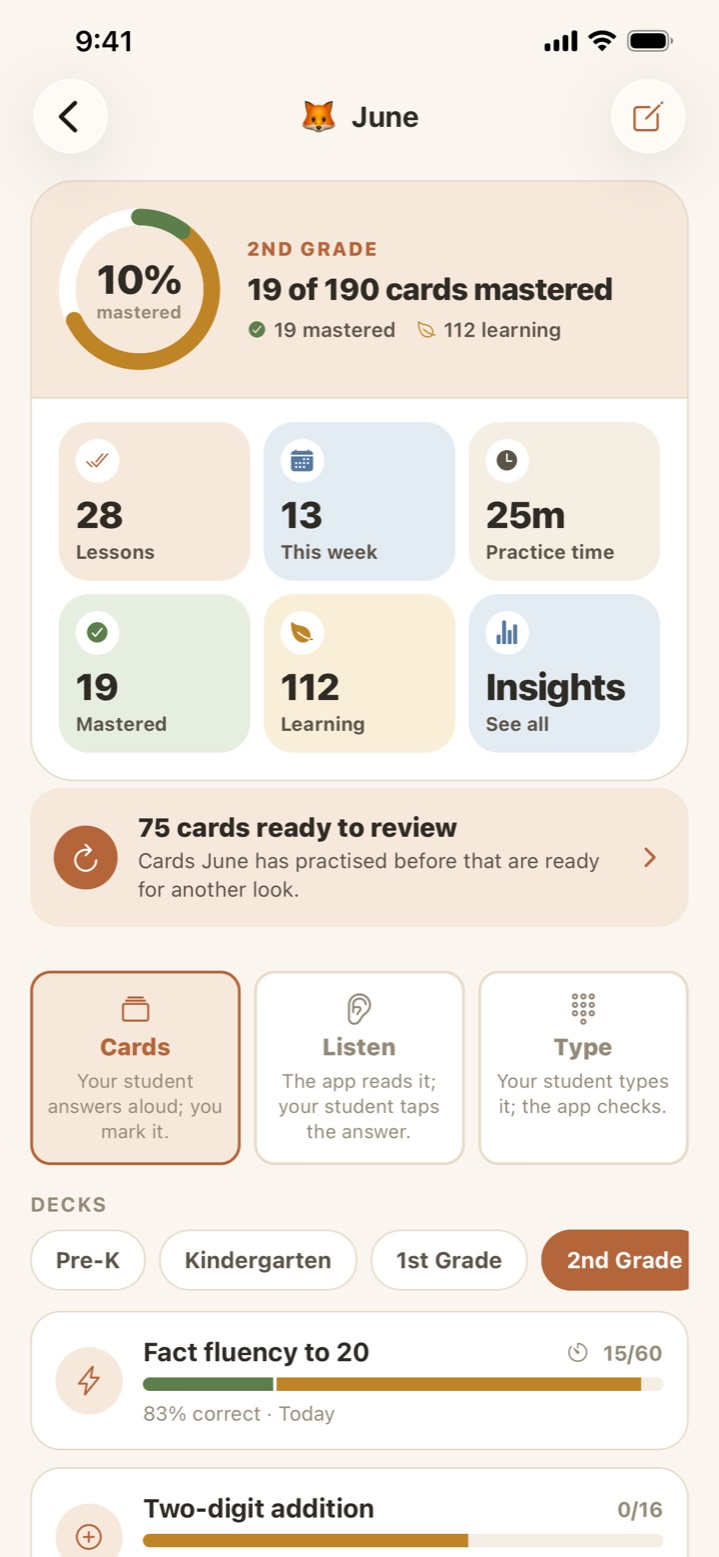
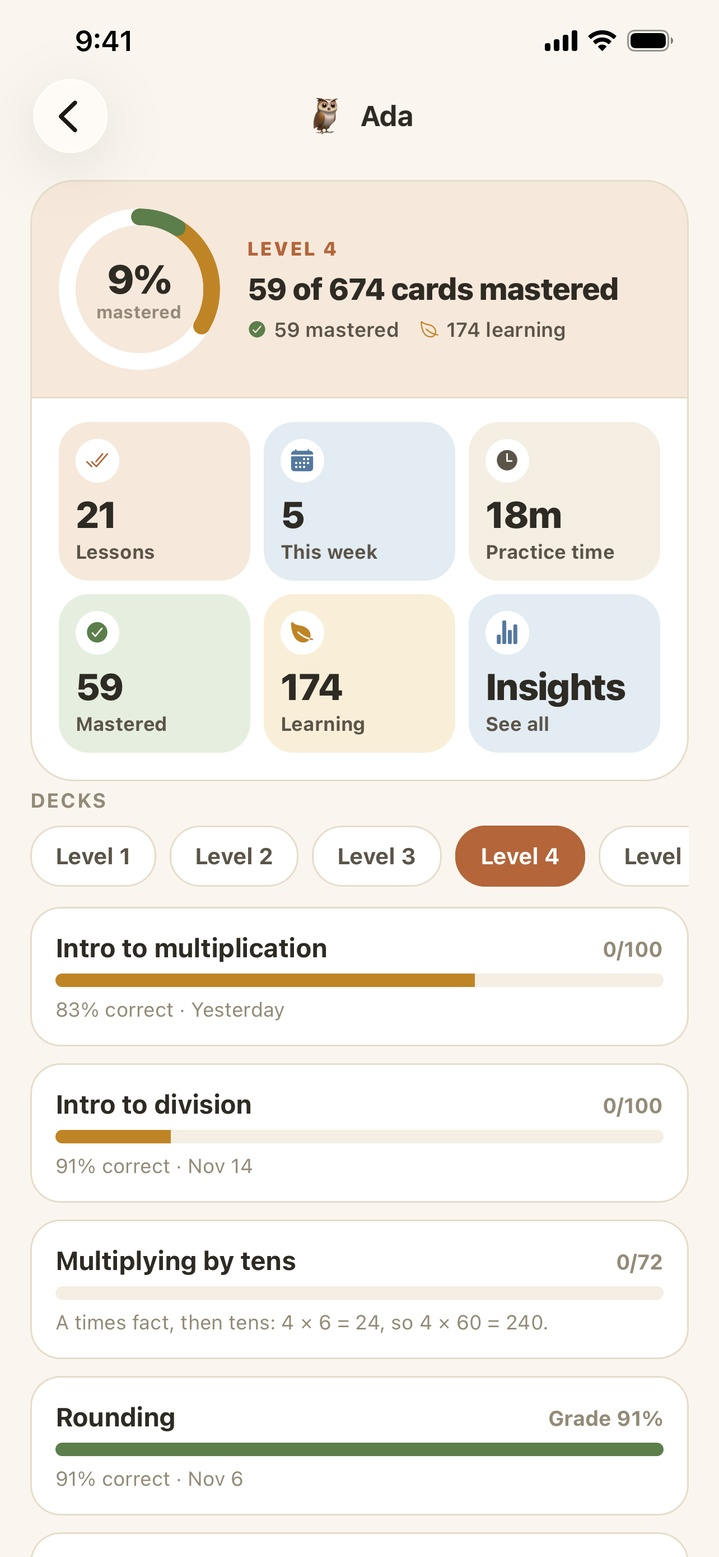
Math page: Levels 1-7, two voices, new screenshot tour
Match the app as it ships and the store listing copy: Pre-K through 6th
grade in seven levels, more than 90 decks and 3,600 cards, activities,
Wren and Miles, mastery by level, the current grown-ups gate, and the
update check and Android voice delivery alongside RevenueCat. Drop the
timed drill. Replace the tour with the nine new App Store iPhone shots,
and update the Math cards on the home and software pages.

diff --git a/little-oat-math.html b/little-oat-math.html
@@ -3,9 +3,9 @@
 <head>
   <meta charset="UTF-8" />
   <meta name="viewport" content="width=device-width, initial-scale=1.0" />
-  <meta name="description" content="Little Oat Math by Little Oat LLC — math flashcards for Pre-K through 5th grade, with flashcards, listen-and-choose, type-the-answer and timed-drill practice, spaced repetition, and progress for every student. Coming soon to iPhone and Android." />
+  <meta name="description" content="Little Oat Math by Little Oat LLC — math practice for Pre-K through 6th grade in seven levels, with flashcards, listen and choose, type the answer, multiple choice and hands-on activities, two recorded voices, spaced repetition, and progress for every student. Coming soon to iPhone and Android." />
   <meta name="author" content="Little Oat LLC" />
-  <title>Little Oat Math | Homeschool Math Flashcards App — Little Oat LLC</title>
+  <title>Little Oat Math | Homeschool Math Practice App — Little Oat LLC</title>
 
   <link rel="preconnect" href="https://fonts.googleapis.com" />
   <link rel="preconnect" href="https://fonts.gstatic.com" crossorigin />
@@ -80,7 +80,7 @@
 
 <section class="page-intro app-intro">
   <h1>Little Oat Math</h1>
-  <p>Math flashcards for homeschool families, Pre-K through 5th grade &mdash; 84 decks and 1,195 cards, from counting to five to order of operations. Your child answers aloud, listens and chooses, types the answer, or races a timed drill, cards come back at the right time until they&rsquo;re mastered, and each student&rsquo;s progress is there when you want it. No account, no ads, and everything stays on your phone.</p>
+  <p>Math practice for homeschool families, from Pre-K counting to 6th-grade ratios and equations &mdash; seven levels, more than 90 decks and 3,600 cards. Your child answers aloud, listens and chooses, types the answer, picks from multiple choice, or works a hands-on activity, cards come back just before they&rsquo;d be forgotten until they&rsquo;re mastered, and each student&rsquo;s progress is there when you want it. No account, no ads, and everything stays on your phone.</p>
 </section>
 
 <!-- ============================================================
@@ -91,23 +91,39 @@
     <div class="lo-tour-list" id="sc-list" role="tablist" aria-label="Little Oat Math features">
       <button class="lo-tour-item active" role="tab" aria-selected="true" data-slide="0">
         <span class="num">01</span>
-        <div><h4>Flashcards with pictures</h4><p>Ten frames, clocks, coins, base-ten blocks, fraction bars and arrays drawn right on the card. Your child answers aloud, you mark Got it or Again.</p></div>
+        <div><h4>Every child in one place</h4><p>Add each child with their own animal picture. Each one gets their own lessons and progress.</p></div>
       </button>
       <button class="lo-tour-item" role="tab" aria-selected="false" data-slide="1">
         <span class="num">02</span>
-        <div><h4>Listen &amp; choose</h4><p>The app reads the problem aloud and your child taps the answer from four. Self-marking and timed.</p></div>
+        <div><h4>Decks by level, not grade</h4><p>A dashboard on every student&rsquo;s page, and decks from Level 1 to Level 7, so each child works wherever they are.</p></div>
       </button>
       <button class="lo-tour-item" role="tab" aria-selected="false" data-slide="2">
         <span class="num">03</span>
-        <div><h4>Type the answer</h4><p>A big on-screen number pad, and the card checks itself &mdash; fractions, decimals, times and remainders included.</p></div>
+        <div><h4>Flashcards with pictures</h4><p>Base-ten blocks, ten frames, clocks and coins drawn right on the card. Your child answers aloud, you mark Got it or Missed it.</p></div>
       </button>
       <button class="lo-tour-item" role="tab" aria-selected="false" data-slide="3">
         <span class="num">04</span>
-        <div><h4>Timed drill</h4><p>A 1, 2 or 3-minute fluency round on the fact decks, with a personal best to beat. No streaks, ever.</p></div>
+        <div><h4>Worked as on paper</h4><p>Columns with carries and borrows, long division under the bracket, equations step by step. After a miss, the app shows where it went wrong.</p></div>
       </button>
       <button class="lo-tour-item" role="tab" aria-selected="false" data-slide="4">
         <span class="num">05</span>
-        <div><h4>Progress for every student</h4><p>A dashboard on every student&rsquo;s page, a full history of every lesson, and insights with accuracy trends, mastery by grade and deck, and the cards that need practice.</p></div>
+        <div><h4>Games for the youngest</h4><p>Color the number, Catch &amp; count and Balloon pop, for children just starting out with numbers.</p></div>
+      </button>
+      <button class="lo-tour-item" role="tab" aria-selected="false" data-slide="5">
+        <span class="num">06</span>
+        <div><h4>Explore first</h4><p>Many decks open with something to explore and nothing to answer: meet the area formulas, play with angles, watch the mean move.</p></div>
+      </button>
+      <button class="lo-tour-item" role="tab" aria-selected="false" data-slide="6">
+        <span class="num">07</span>
+        <div><h4>Hands-on activities</h4><p>Set the clock, pay with coins and make change, build numbers with base-ten blocks, hop a frog along the number line, plot points.</p></div>
+      </button>
+      <button class="lo-tour-item" role="tab" aria-selected="false" data-slide="7">
+        <span class="num">08</span>
+        <div><h4>Progress for every student</h4><p>Accuracy trends, a 14-day chart, mastery by level and deck, and the cards to review. No streaks.</p></div>
+      </button>
+      <button class="lo-tour-item" role="tab" aria-selected="false" data-slide="8">
+        <span class="num">09</span>
+        <div><h4>Many ways to practice</h4><p>Flashcards, Listen &amp; choose, Type the answer, Multiple choice and activities. Pick a random set or the exact cards.</p></div>
       </button>
     </div>
 
@@ -115,9 +131,9 @@
       <div class="app-phone" id="sc-phone" aria-live="polite"></div>
       <div class="lo-tour-caption">
         <span>
-          <span class="pill-sm" id="sc-pill">Flashcards</span>
+          <span class="pill-sm" id="sc-pill">Students</span>
           &nbsp;
-          <span id="sc-counter" style="color:var(--muted)">Step 1 of 5</span>
+          <span id="sc-counter" style="color:var(--muted)">Step 1 of 9</span>
         </span>
         <div class="lo-tour-nav">
           <button id="sc-prev" aria-label="Previous feature" disabled>
@@ -165,7 +181,7 @@
   <div class="app-price">
     <span class="price-tag">Pricing</span>
     <div class="price-row"><span class="amount">$1.99</span><span class="period">/month</span></div>
-    <p class="price-note">Or $19.99 a year for Little Oat Math Plus, with a 14-day free trial that starts when you choose a plan. Everything is included in the trial: every deck from Pre-K to 5th grade, every student, all four ways to practice, and the full progress insights. After it, practice needs Plus &mdash; but a student&rsquo;s progress, figures and backups are never locked away. Billed through the App Store or Google Play; cancel anytime in your store settings.</p>
+    <p class="price-note">Or $19.99 a year for Little Oat Math Plus, with a 14-day free trial for new subscribers that starts when you choose a plan. Everything is included in the trial: every deck at every level, every student, every way to practice, and the full progress insights. After it, practice needs Plus &mdash; but a student&rsquo;s progress is never deleted or hidden, and backups are always free. Billed through the App Store or Google Play; cancel anytime in your store settings.</p>
   </div>
   <p class="store-avail-asof"><a href="policies.html#terms-apx-math">Terms of Use</a> &middot; <a href="policies.html#privacy-apx-math">Privacy Policy</a> &middot; <a href="policies.html#disc-apx-math">Disclaimers</a></p>
 </section>
@@ -175,28 +191,28 @@
      ============================================================ -->
 <section class="info-grid">
   <div class="info-card">
-    <h3>Counting to order of operations</h3>
-    <p>Counting, numbers to 120, quick-look dot patterns, shapes, ten frames and teen numbers, addition and subtraction facts, make 10, doubles, place value, comparing numbers, telling time, coins, skip counting, even and odd, every times table and its division facts, fractions, rounding, area and volume, angles, prime and composite numbers, decimals, powers of ten and order of operations.</p>
+    <h3>Counting to ratios and equations</h3>
+    <p>Seven levels: counting, numbers to 10, shapes and patterns; numbers to 100, ten frames, addition and subtraction facts, place value and time; carrying and borrowing, money, measuring and first fractions; multiplication, division, rounding, graphs, area and perimeter; long multiplication and division, decimals, lines and angles; order of operations, unit conversion, volume and the coordinate plane; and ratios, percentages, negative numbers, expressions and equations, and statistics. Make decks of your own under Custom, too.</p>
   </div>
   <div class="info-card">
     <h3>A page for each student</h3>
-    <p>Add each child with their own grade and progress. Each student&rsquo;s page opens on a dashboard: progress through their grade, lessons completed, cards mastered and cards still being learned &mdash; tap Lessons for every lesson, what it covered and exactly which cards were missed. Set up a lesson as a random set of any size or pick the exact cards, and mark any card mastered or new by hand.</p>
+    <p>Add each child with their own animal picture and progress. Each student&rsquo;s page opens on a dashboard: lessons, practice time, cards mastered and cards still being learned &mdash; tap Lessons for every lesson, what it covered and exactly which cards were missed. Set up a lesson as a random set or pick the exact cards. A card is mastered after four correct answers in a row, spread over about a week, and you can mark a card or deck mastered yourself.</p>
   </div>
   <div class="info-card">
     <h3>Logs straight into the Daily Tracker</h3>
-    <p>Send a finished lesson to the <a href="daily-work-tracker.html">Daily Work Tracker</a> and it&rsquo;s logged as graded daily work, filed under Math with the topic, cards covered and your notes already filled in. It goes from one app to the other on your phone.</p>
+    <p>Send a finished lesson to the <a href="daily-work-tracker.html">Daily Work Tracker</a> and it&rsquo;s logged as graded daily work, with the topic and cards already filled in. Or turn on logging in Settings and lessons go in by themselves. It goes from one app to the other on your phone.</p>
   </div>
   <div class="info-card">
     <h3>Stays on your phone</h3>
-    <p>There&rsquo;s no account, and everything stays on your device. <strong>Backup &amp; export</strong> writes a backup file you save to iCloud Drive, Google Drive, Files or email, and restore on a new phone &mdash; backups are always free. You can also export CSV files of progress by deck and of every answer.</p>
+    <p>There&rsquo;s no account, and everything stays on your device. <strong>Backup &amp; export</strong> writes a backup file you save to iCloud Drive, Google Drive, Files or email, and restore on a new phone &mdash; backups are always free. You can also export progress as a spreadsheet. Seven warm color themes, each in light and dark.</p>
   </div>
   <div class="info-card">
     <h3>Grown-ups only</h3>
-    <p>Settings, purchases, backups, and adding or editing students sit behind a two-digit multiplication question &mdash; harder than anything in the decks &mdash; so little hands stay on the flashcards.</p>
+    <p>Purchases, backups, the Daily Tracker settings, sending a lesson to the Daily Tracker, and adding or editing students sit behind a grown-ups-only question &mdash; a two-digit sum with a carry, typed in full &mdash; so little hands stay on the practice.</p>
   </div>
   <div class="info-card">
     <h3>No ads, no tracking</h3>
-    <p>No analytics, no advertising and no tracking. The only online service is RevenueCat, which checks whether a subscription is active. Cards are read aloud from recordings built into the app, in four voice styles &mdash; Natural, Calm, Excited and Robot &mdash; and the app never uses the microphone.</p>
+    <p>No analytics, no advertising and no tracking, and your students and their progress are never sent to us. Online, the app checks only whether a subscription is active (through RevenueCat) and whether an app update is ready (through Expo). Cards are read aloud by two recorded voices, Wren and Miles: pick one when you start and change it any time. On iPhone both are built into the app and work offline; on Android a few recordings are built in and Google Play delivers the rest of the voice you choose, with your phone&rsquo;s offline voice filling in until then. The app never uses the microphone.</p>
   </div>
 </section>
 
@@ -223,11 +239,15 @@
 /* ---- Little Oat Math feature tour ---- */
 (function () {
   var slides = [
-    { src: 'assets/little-oat-math/01-flashcard.jpg', alt: 'A flashcard showing 5 + 3 on a ten frame, with Again and Got it buttons', pill: 'Flashcards' },
-    { src: 'assets/little-oat-math/03-listen-clock.jpg', alt: 'Listen and choose: a clock face showing 6:15, with four times to pick from', pill: 'Listen & choose' },
-    { src: 'assets/little-oat-math/04-type-answer.jpg', alt: 'Type the answer: 1/4 = ?/12 on a fraction bar, above a large number pad', pill: 'Type the answer' },
-    { src: 'assets/little-oat-math/05-timed-drill.jpg', alt: 'A timed drill: 17 − 10 with the clock running down', pill: 'Timed drill' },
-    { src: 'assets/little-oat-math/06-insights.jpg', alt: 'A student’s insights: 94% accuracy over the last 7 days, lessons, mastered cards and a 14-day chart', pill: 'Progress' },
+    { src: 'assets/little-oat-math/01-home.jpg', alt: 'The home screen: three students, June (2nd grade), Theo (kindergarten) and Ada (4th grade), each with an animal picture, and an Add a student button', pill: 'Students' },
+    { src: 'assets/little-oat-math/02-dashboard.jpg', alt: 'Ada’s dashboard: Level 4, 59 of 674 cards mastered, tiles for lessons, practice time, mastered and learning cards and insights, and her Level 4 decks with progress bars', pill: 'Dashboard' },
+    { src: 'assets/little-oat-math/03-flashcard-base-ten.jpg', alt: 'A flashcard of base-ten blocks, with thousands cubes, hundreds flats, tens rods and ones, above Missed it and Got it buttons', pill: 'Flashcards' },
+    { src: 'assets/little-oat-math/04-solve-in-columns.jpg', alt: 'Solving 124 + 597 in columns: the carried 1s written above, 21 filled in so far, and “Add the hundreds, and the 1 you carried” above a number pad', pill: 'Solve in columns' },
+    { src: 'assets/little-oat-math/05-color-the-number.jpg', alt: 'Color the number: a big 5 filled with rainbow stripes, with colors and patterns to pick from and Undo, Start over and I’m done buttons', pill: 'Color the number' },
+    { src: 'assets/little-oat-math/06-meet-the-formulas.jpg', alt: 'Meet the formulas: the area of a circle, A = πr², with the radius set to 6 and worked out as 3.14(6)² = 113.04 square units', pill: 'Meet the formulas' },
+    { src: 'assets/little-oat-math/07-play-with-time.jpg', alt: 'Play with time: a clock face with buttons to move the hands by the hour, 5 minutes or 1 minute, and a Hear the time button', pill: 'Play with time' },
+    { src: 'assets/little-oat-math/08-insights.jpg', alt: 'Ada’s insights: 98% accuracy over the last 7 days, 12 points up on last week, tiles for lessons, mastered, learning and practiced cards, and a 14-day chart of lessons', pill: 'Insights' },
+    { src: 'assets/little-oat-math/09-deck-activities.jpg', alt: 'The Level 4 deck Time to the minute: mastered, learning and new cards, and activity tiles for Play, Cards, Multiple choice, Drag, Set and How long', pill: 'Ways to practice' },
   ];
 
   var phone   = document.getElementById('sc-phone');

diff --git a/software.html b/software.html
@@ -188,7 +188,7 @@
       <div class="product-body">
         <span class="badge-soft mobile">Mobile app</span>
         <h3>Little Oat Math</h3>
-        <p>Math flashcards for Pre-K through 5th grade &mdash; 84 decks from counting to order of operations, with pictures that show the math, four ways to practice, spaced repetition and progress for every student. All kept on your phone.</p>
+        <p>Math practice for Pre-K through 6th grade &mdash; seven levels and more than 90 decks from counting to ratios and equations, with pictures that show the math, hands-on activities, two recorded voices, spaced repetition and progress for every student. All kept on your phone.</p>
         <span class="avail-chips"><span class="avail-chip is-review">Android · Coming soon</span><span class="avail-chip is-review">iPhone · Coming soon</span></span>
         <span class="product-cta">Learn more
           <svg width="16" height="16" viewBox="0 0 24 24" fill="none" stroke="currentColor" stroke-width="2" stroke-linecap="round" stroke-linejoin="round" aria-hidden="true"><path d="M5 12h14"/><path d="m12 5 7 7-7 7"/></svg>

diff --git a/index.html b/index.html
@@ -214,7 +214,7 @@
       <div class="product-body">
         <span class="badge-soft mobile">Mobile app</span>
         <h3>Little Oat Math</h3>
-        <p>Math flashcards for Pre-K through 5th grade. Flashcards, listen and choose, type the answer, or a timed drill &mdash; see what each child has mastered, and log lessons straight into the Daily Work Tracker.</p>
+        <p>Math practice for Pre-K through 6th grade, in seven levels. Flashcards, listen and choose, type the answer, multiple choice and hands-on activities &mdash; see what each child has mastered, and log lessons straight into the Daily Work Tracker.</p>
         <span class="avail-chips"><span class="avail-chip is-review">Android · Coming soon</span><span class="avail-chip is-review">iPhone · Coming soon</span></span>
         <span class="product-cta">Learn more
           <svg width="16" height="16" viewBox="0 0 24 24" fill="none" stroke="currentColor" stroke-width="2" stroke-linecap="round" stroke-linejoin="round" aria-hidden="true"><path d="M5 12h14"/><path d="m12 5 7 7-7 7"/></svg>
